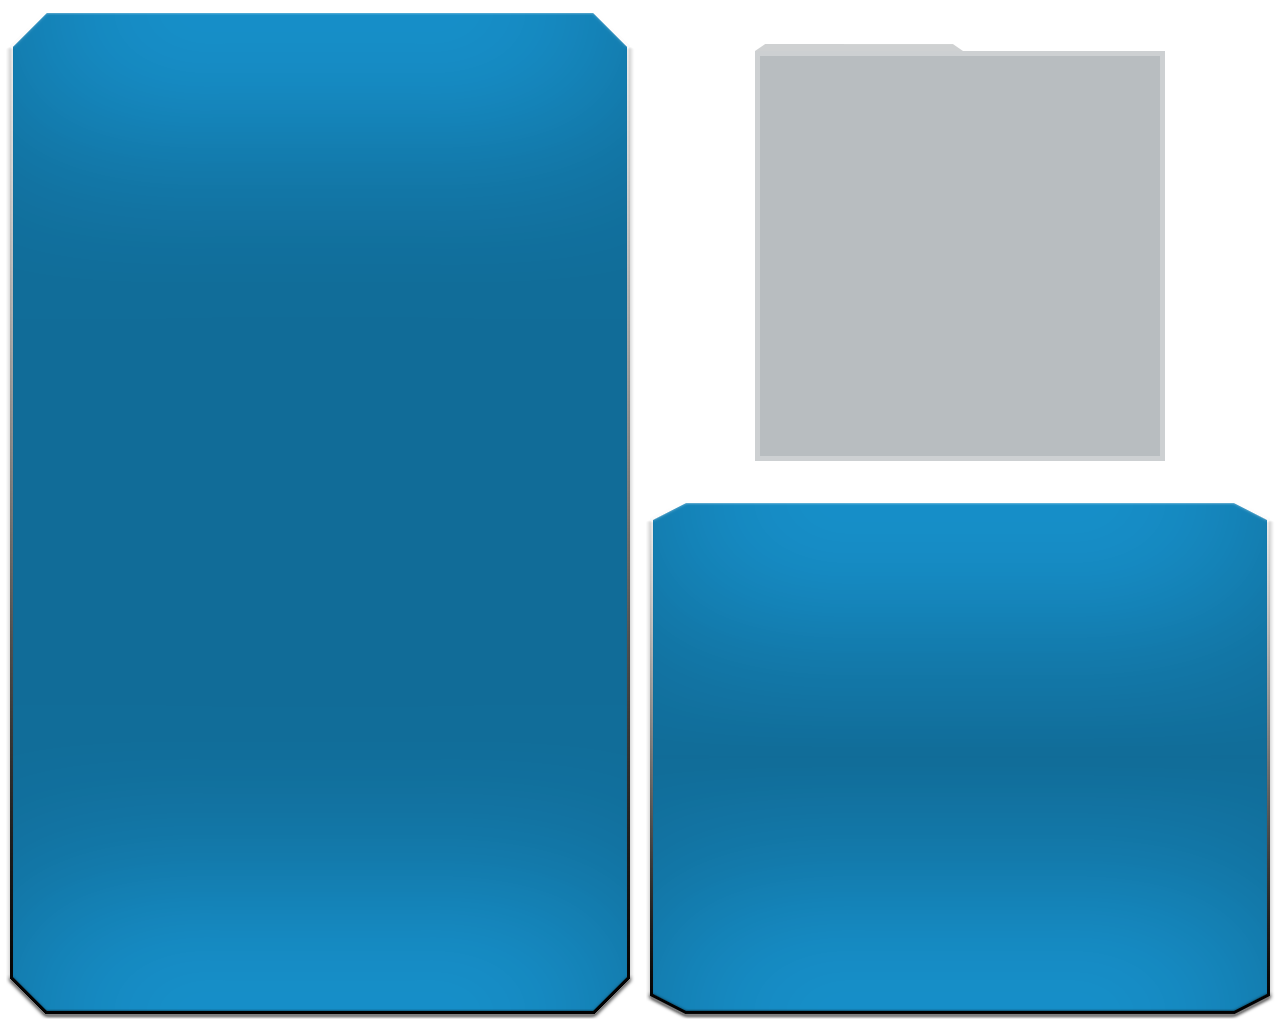
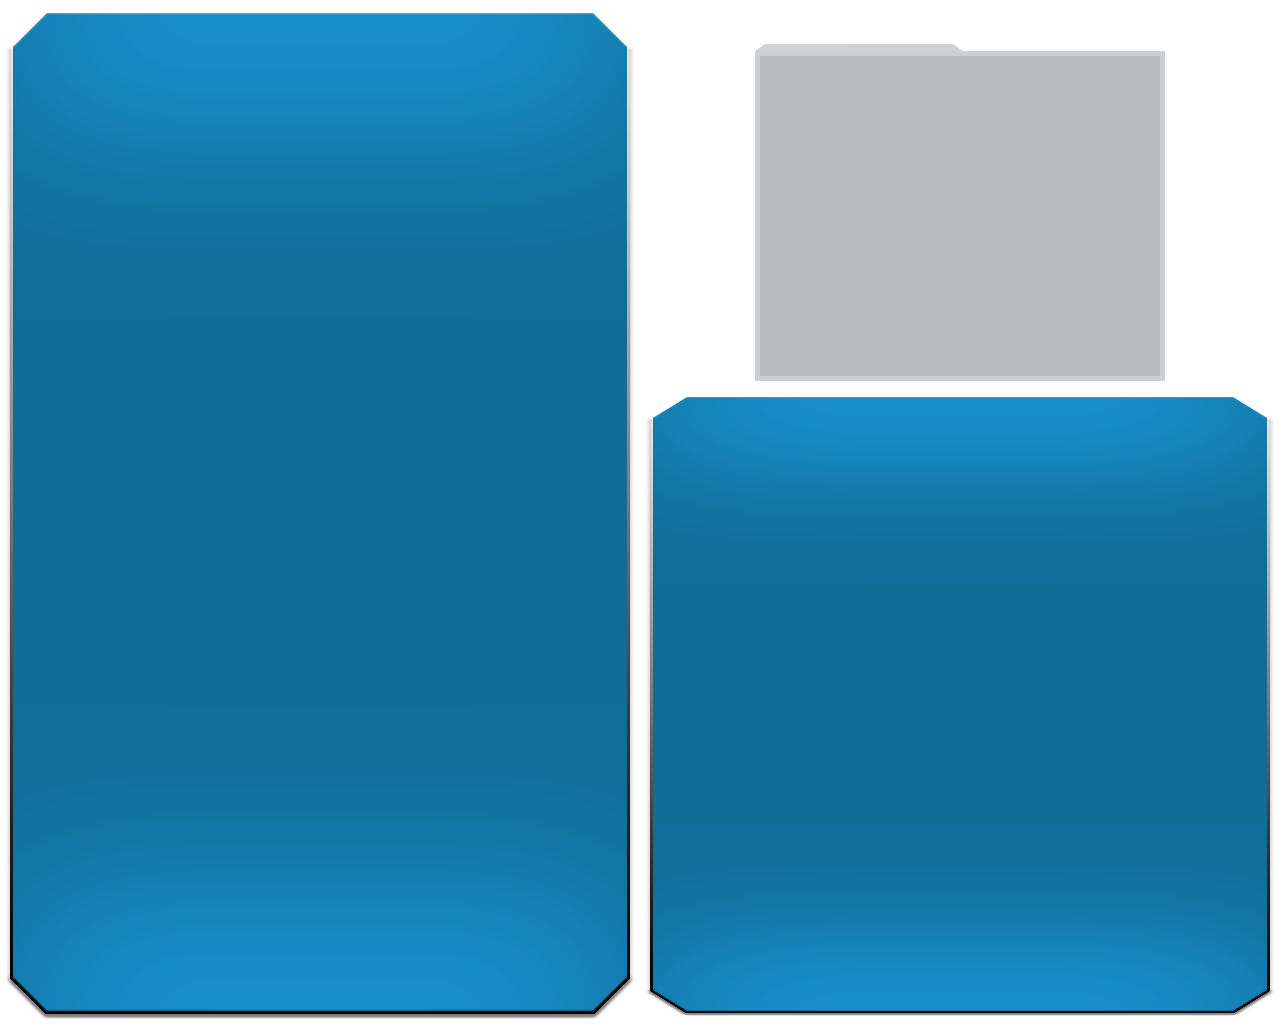
Ajout de la partie highscore et modif des fichiers de description des jeux

Changed region(s): [[0.5, 0.375, 1.0, 0.625], [0.5, 0.9688, 1.0, 1.0]]

diff --git a/BoiteDescription.java b/BoiteDescription.java
@@ -19,6 +19,7 @@ public class BoiteDescription extends Boite{
     private Texte tJoystick;
     private Texte[] tBouton;
     private String[] texteBouton;
+    private Texte highscore;
 	
     BoiteDescription(Rectangle rectangle) {
 	super(rectangle);
@@ -27,29 +28,31 @@ public class BoiteDescription extends Boite{
 	texteBouton = new String[7];
 		
 	//declaration des texture bouton + joystick
-	this.joystick = new Texture("img/joystick.png", new Point(740, 120), 40,40);
+	this.joystick = new Texture("img/joystick.png", new Point(740, 100), 40,40);
 	for(int i = 0 ; i < 3 ; i++){
-	    this.bouton[i] = new Texture("img/ibouton.png", new Point(890+130*i, 150), 40, 40);
+	    this.bouton[i] = new Texture("img/ibouton.png", new Point(890+130*i, 130), 40, 40);
 	}
 	for(int i = 3 ; i < 6 ; i++){
-	    this.bouton[i] = new Texture("img/ibouton.png", new Point(890+130*(i-3), 70), 40, 40);
+	    this.bouton[i] = new Texture("img/ibouton.png", new Point(890+130*(i-3), 50), 40, 40);
 	}
 	//declaration des textes bouton + joystick
-	this.tJoystick = new Texte(Couleur .NOIR, "...", new Font("Calibri", Font.TYPE1_FONT, 15), new Point(760, 100));
+	this.tJoystick = new Texte(Couleur .NOIR, "...", new Font("Calibri", Font.TYPE1_FONT, 15), new Point(760, 80));
 	for(int i = 0 ; i < 3 ; i++){
-	    this.tBouton[i] = new Texte(Couleur .NOIR, "...", new Font("Calibri", Font.TYPE1_FONT, 15), new Point(910+130*i, 140));
+	    this.tBouton[i] = new Texte(Couleur .NOIR, "...", new Font("Calibri", Font.TYPE1_FONT, 15), new Point(910+130*i, 120));
 	}
 	for(int i = 3 ; i < 6 ; i++){
-	    this.tBouton[i] = new Texte(Couleur .NOIR, "...", new Font("Calibri", Font.TYPE1_FONT, 15), new Point(910+130*(i-3), 60));
+	    this.tBouton[i] = new Texte(Couleur .NOIR, "...", new Font("Calibri", Font.TYPE1_FONT, 15), new Point(910+130*(i-3), 40));
 	}
 	stop = false;
 	message = new Texte[10];
 	for(int i = 0 ; i < message.length ; i++){
-	    message[i] = new Texte(Couleur .NOIR, "", new Font("Calibri", Font.TYPE1_FONT, 20), new Point(950, 500));
+	    message[i] = new Texte(Couleur .NOIR, "", new Font("Calibri", Font.TYPE1_FONT, 20), new Point(960, 590));
 	    message[i].translater(0, -i*30);
 
 	}
 	nombreLigne = 0;
+
+	highscore = new Texte(Couleur.NOIR, "HIGHSCORE", new Font("Calibri", Font.TYPE1_FONT, 25), new Point(960, 335));
     }
 	
     public void lireFichier(String path){
@@ -137,6 +140,10 @@ public class BoiteDescription extends Boite{
 	
     public Texte gettJoystick(){
 	return this.tJoystick;
+    }
+
+    public Texte getHighscore(){
+	return this.highscore;
     }
 	
     public void settJoystick(String s){

diff --git a/BoiteImage.java b/BoiteImage.java
@@ -8,7 +8,7 @@ public class BoiteImage extends Boite{
 
     BoiteImage(Rectangle rectangle, String image) {
 	super(rectangle);
-	this.image = new Texture(image+"/photo.png", new Point(760, 568));
+	this.image = new Texture(image+"/photo.png", new Point(760, 648));
     }
 
     public Texture getImage() {
@@ -17,7 +17,7 @@ public class BoiteImage extends Boite{
 
     public void setImage(String chemin) {
 	this.image.setImg(chemin+"/photo.png");
-	this.image.setTaille(400, 400);
+	this.image.setTaille(400, 320);
     }
 
 }

diff --git a/Graphique.java b/Graphique.java
@@ -88,6 +88,9 @@ public class Graphique {
 	    f.ajouter(bd.gettBouton()[i]);
 	}
 	f.ajouter(bd.gettJoystick());
+	f.ajouter(new Ligne(Couleur.NOIR,new Point(670,360), new Point(1250,360)));
+	f.ajouter(new Ligne(Couleur.NOIR,new Point(670,190), new Point(1250,190)));
+	f.ajouter(bd.getHighscore());
     }
 
     public void selectionJeu(){
